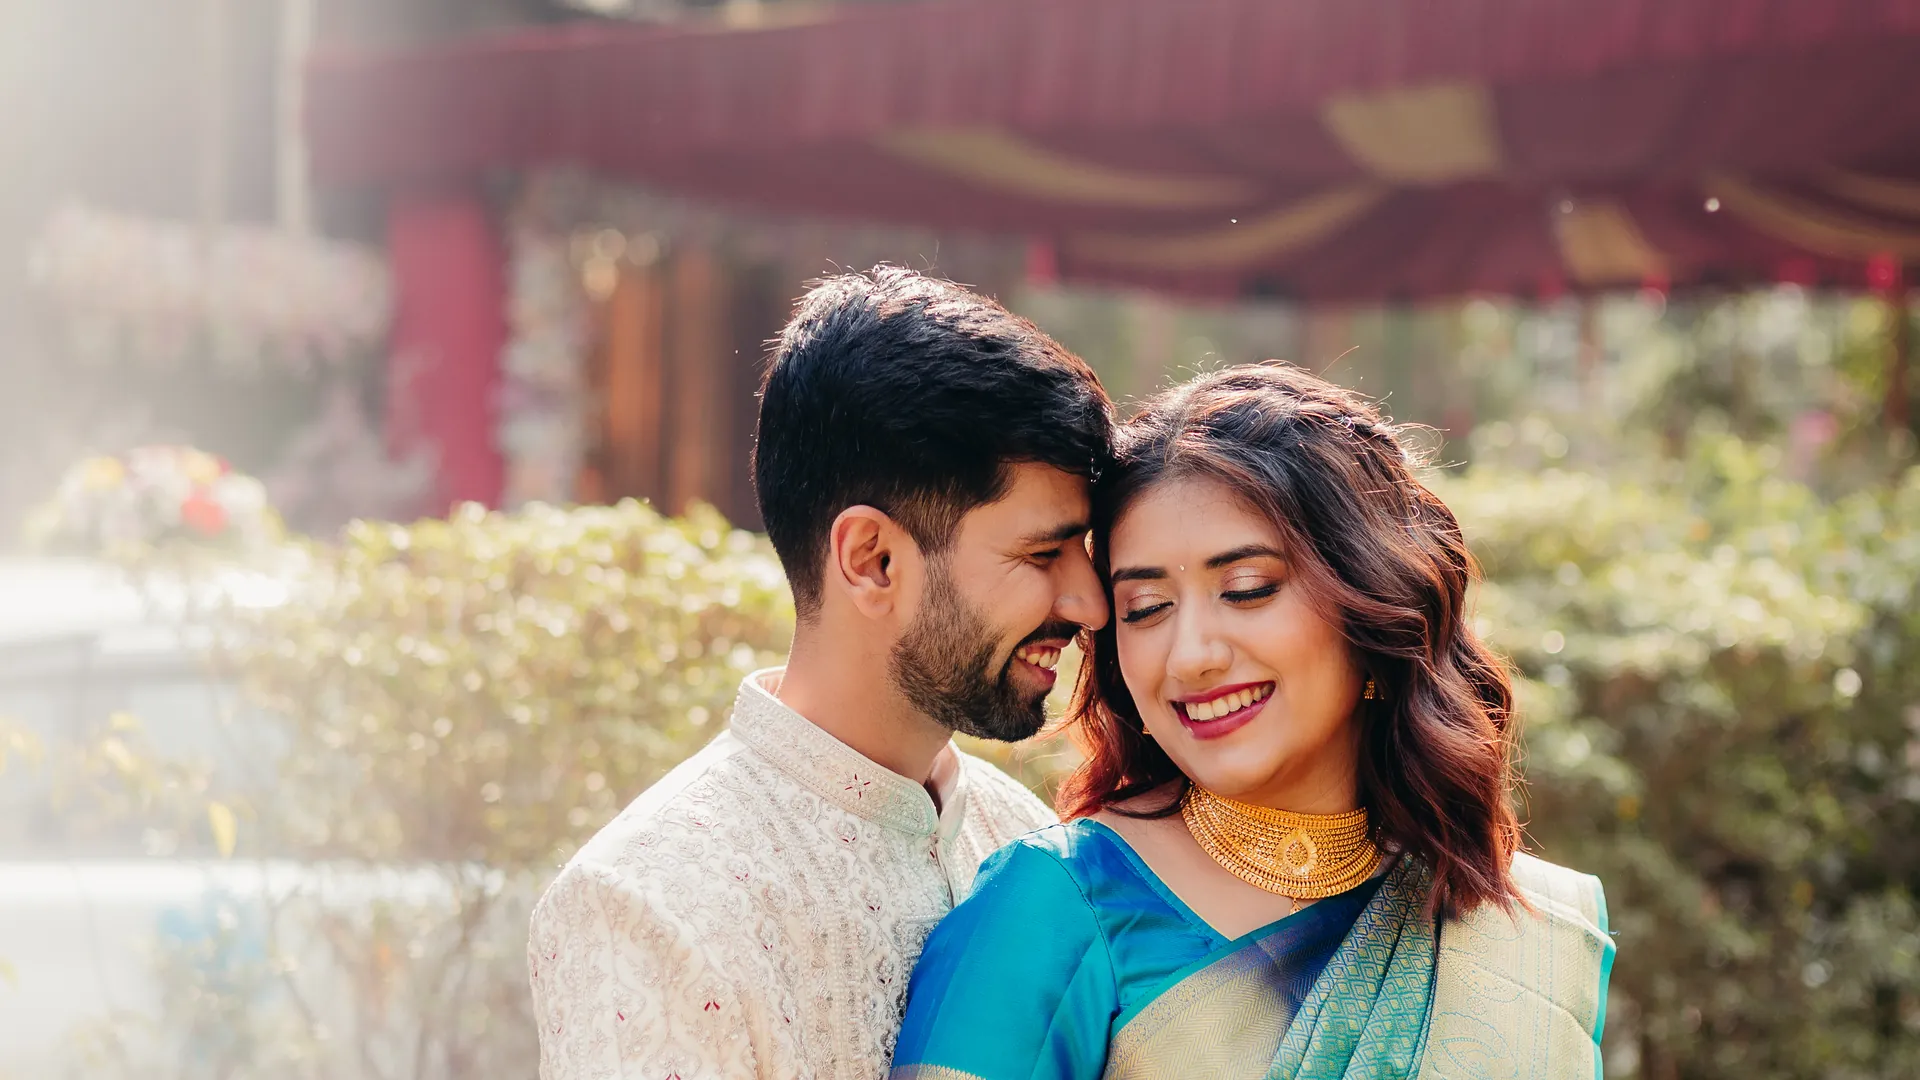
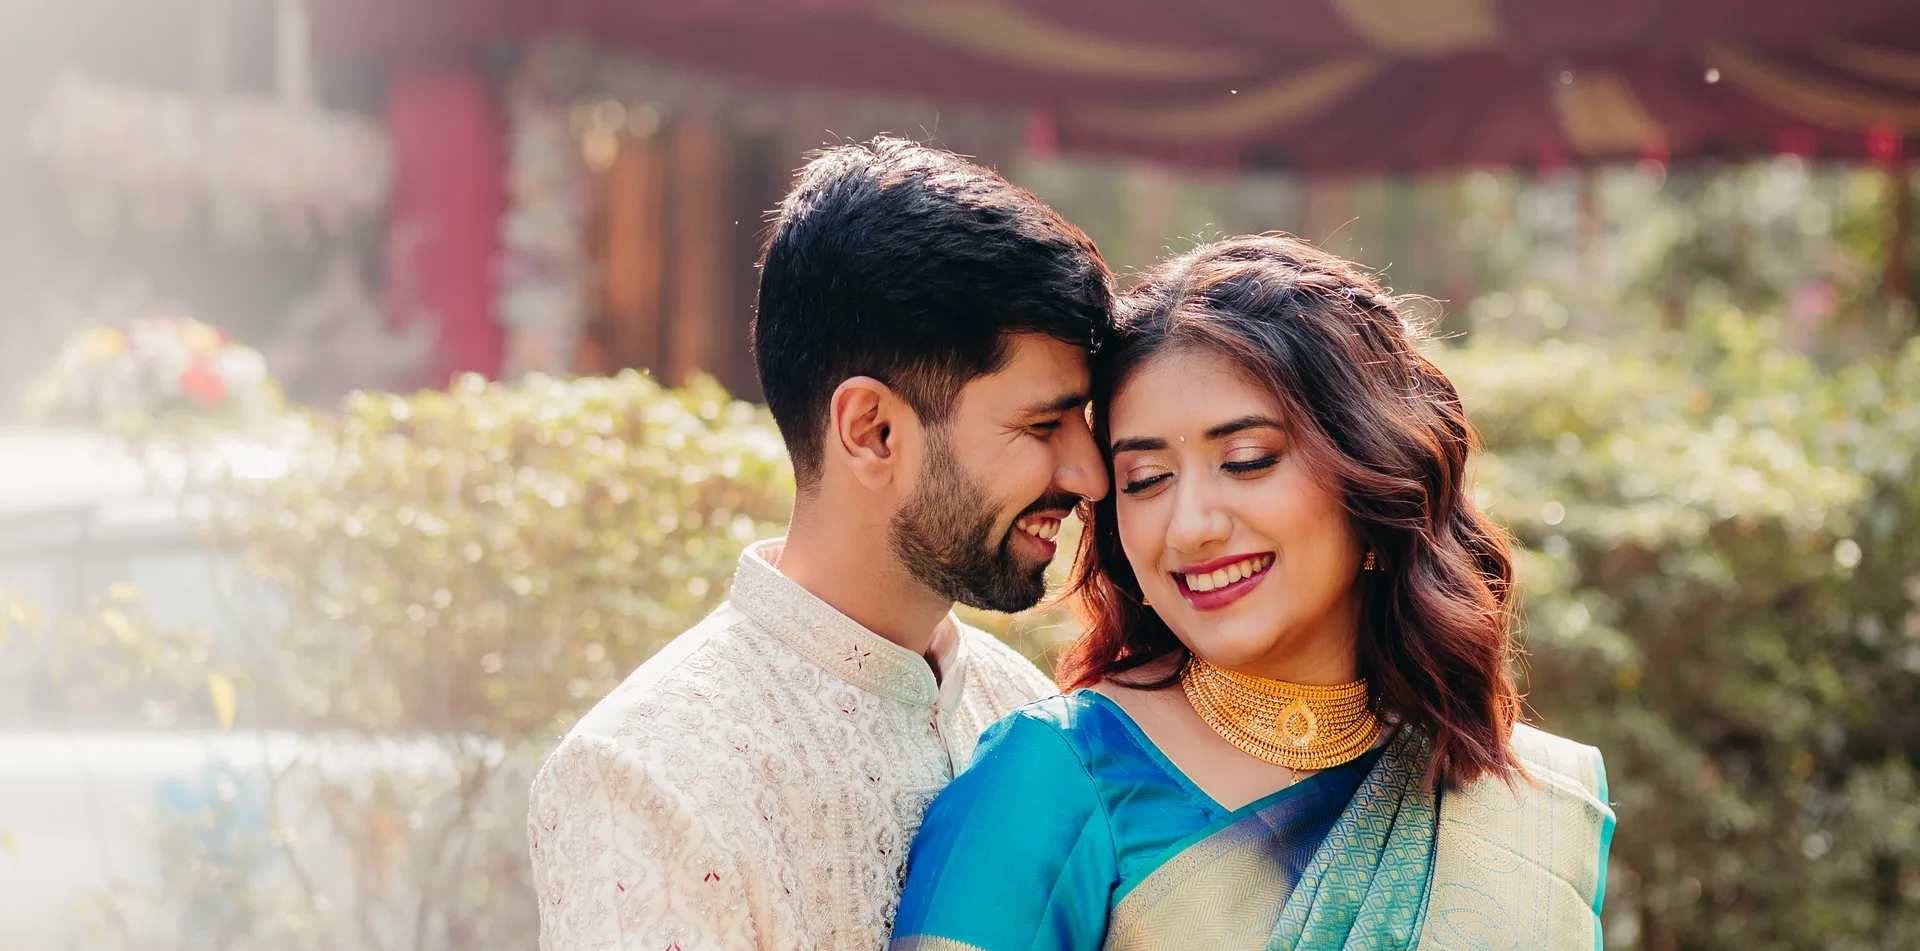
fix: three more mobile hero corrections
- mandap-kiss: 40% -> 46% mobile, so the groom's face isn't clipped at the
  edge while the kiss stays centred.
- wedding-hands-henna: 47% -> 57% mobile, bringing more of the groom's side
  into frame while keeping the clasped hands roughly centred.
- abhi-isha: the empty headroom above the couple's heads on mobile wasn't
  fixable with --hero-position-mobile — this slide is wide enough that the
  full image height always shows on a phone, so Y position has no effect.
  Re-cropped the deployed webp itself, trimming ~12% off the top (from the
  original 4000x6000 source) so less empty space sits above their heads.
  Desktop crop is effectively unchanged (it already only showed a thin
  vertical slice of this image).

Verified live at 375px: all three screenshotted before/after.

diff --git a/index.html b/index.html
@@ -85,14 +85,14 @@
   <div class="hero-slides" aria-hidden="true">
     <!-- Blurry Visuals' own photographs only. The first slide loads eagerly
          because it is the largest paint on the page. -->
-    <div class="hero-slide act" style="--hero-position:50% 46%;--hero-position-mobile:40% 46%;background-image:url('img/hero/hero-sachi-vedant-mandap-kiss.webp')"></div>
+    <div class="hero-slide act" style="--hero-position:50% 46%;--hero-position-mobile:46% 46%;background-image:url('img/hero/hero-sachi-vedant-mandap-kiss.webp')"></div>
     <div class="hero-slide" data-bg="img/hero/hero-wedding-arch-walk.webp" style="--hero-position:50% 45%"></div>
     <div class="hero-slide" data-bg="img/hero/hero-sushmita-harsh-haldi.webp" style="--hero-position:50% 40%;--hero-position-mobile:60% 40%"></div>
     <div class="hero-slide" data-bg="img/hero/hero-wedding-turban-portrait.webp" style="--hero-position:50% 38%;--hero-position-mobile:44% 38%"></div>
     <div class="hero-slide" data-bg="img/hero/hero-ceremony-motion.webp" style="--hero-position:50% 55%;--hero-position-mobile:47% 55%"></div>
     <div class="hero-slide" data-bg="img/hero/hero-abhi-isha.webp" style="--hero-position:50% 50%;--hero-position-mobile:57% 50%"></div>
     <div class="hero-slide" data-bg="img/hero/hero-vedin-megha-street.webp" style="--hero-position:50% 50%"></div>
-    <div class="hero-slide" data-bg="img/hero/hero-wedding-hands-henna.webp" style="--hero-position:50% 50%;--hero-position-mobile:47% 50%"></div>
+    <div class="hero-slide" data-bg="img/hero/hero-wedding-hands-henna.webp" style="--hero-position:50% 50%;--hero-position-mobile:57% 50%"></div>
     <div class="hero-slide" data-bg="img/hero/hero-sachi-vedant-garden.webp" style="--hero-position:50% 46%;--hero-position-mobile:58% 46%"></div>
   </div>
 
